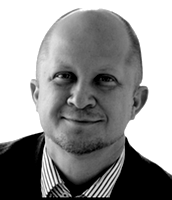
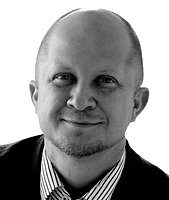
updates

diff --git a/test.html b/test.html
@@ -60,15 +60,48 @@
     <div class="team-container">
 
     <div class="person-card">
-      <img src="http://generativeintelligencelab.ai/images/people/fkoch-headshot.png" alt="Fernando Koch">
+      <img src="./images/people/fkoch-headshot-bw.png">
       <div class="person-name"><a href="https://www.linkedin.com/in/fkoch/">Dr. Fernando Koch</a></div>
       <div class="person-title">Lab Leader<br/><a href="https://www.fau.edu/engineering/directory/faculty/koch/">Research Professor</a><br/>Dept EECS, FAU</div>
     </div>
 
+    <div class="person-card">
+      <img src="./images/people/natasha-headshot-bw.png">
+      <div class="person-name"><a href="https://www.linkedin.com/in/natashaastudillo/">Natasha Astudillo</a></div>
+      <div class="person-title">Research Leader, Smarter Control Systems<br/>Ph.D. Candidate<br/>Dept EECS, FAU</div>
+    </div>
+   
+    <div class="person-card">
+      <img src="./images/people/rutvik-headshot-bw.png">
+      <div class="person-name"><a href="https://www.linkedin.com/in/dave-rutvikkumar/">Rutvikkumar Dave</a></div>
+      <div class="person-title">Research Leader, Smarter Traffic Systems<br/>Master's CS<br/>Dept EECS, FAU</div>
+    </div>
 
+    <div class="person-card">
+      <img src="./images/people/sumedh-headshot-bw.png">
+      <div class="person-name"><a href="https://www.linkedin.com/in/sumedh-vyk/">Sumedh VYK</a></div>
+      <div class="person-title">Research Leader, Smarter Health Systems<br/>Leader, <a href="http://www.faueec.org">Eng Entrepreneurship Club</a><br/>Master's CS<br/>Dept EECS, FAU</div>
+    </div>
+
+
+   
     <!-- Add more people as needed -->
     </div>
 </div>
+
+<h2 id="check-also">Check Also</h2>
+
+<ul>
+  <li><a href="/collaborate.html">Collaborate</a></li>
+  <li><a href="/knowledge.html#publications">Publications</a></li>
+  <li><a href="/knowledge.html#education">Education</a></li>
+  <li><a href="/projects.html#resources">Resources</a></li>
+  <li><a href="/projects.html">Projects</a></li>
+  <li><a href="/exercises.html">Exercises</a></li>
+  <li><a href="/contribute.html">Contributing</a></li>
+</ul>
+
+
 </main>
 
 <footer class="site-footer h-card">

diff --git a/images/_fixing.py b/images/_fixing.py
@@ -3,21 +3,16 @@ import glob
 import os
 
 def main():
-    # Get the directory where this script is located
     base_dir = os.path.dirname(os.path.abspath(__file__))
-
-    # Promo message
     print(f"✨ Running at #{base_dir}")
 
-    # Define resize tasks
     resize_tasks = [
         {"pattern": "use-*.png", "size": (150, 150)},
         {"pattern": "*-icon.png", "size": (200, 200)},
-        {"pattern": "*-headshot.png", "size": (None, 200)}, 
-        {"pattern": "*-info.png", "size": (None, 700)}, 
+        {"pattern": "*-headshot.png", "size": (None, 200), "bw": True, "contrast": 1.4},
+        {"pattern": "*-info.png", "size": (None, 700)},
     ]
 
-    # Process each resize task
     for task in resize_tasks:
         pattern_path = os.path.join(base_dir, '**', task["pattern"])
         image_files = glob.glob(pattern_path, recursive=True)
@@ -28,41 +23,37 @@ def main():
                     orig_width, orig_height = img.size
                     target_width, target_height = task["size"]
 
-                    # Calculate missing dimension if None
-                    if target_width is None and target_height is not None:
+                    if target_width is None:
                         aspect_ratio = orig_width / orig_height
                         target_width = int(target_height * aspect_ratio)
-                    elif target_height is None and target_width is not None:
+                    elif target_height is None:
                         aspect_ratio = orig_height / orig_width
                         target_height = int(target_width * aspect_ratio)
 
-                    resized_img = img.resize((target_width, target_height), Image.Resampling.LANCZOS)
-                    resized_img.save(img_path)
-                    print(f"✅ Resized:  {os.path.basename(img_path)} → {task['size']}")
+                    # Skip resizing if already at target size
+                    if (orig_width, orig_height) == (target_width, target_height):
+                        print(f"⏩ Skipped (already size): {os.path.basename(img_path)}")
+                        resized_img = img.copy()
+                    else:
+                        resized_img = img.resize((target_width, target_height), Image.Resampling.LANCZOS)
+                        resized_img.save(img_path)
+                        print(f"✅ Resized:  {os.path.basename(img_path)} → {target_width}x{target_height}")
+
+                    # Optional B&W processing
+                    if task.get("bw", False):
+                        contrast_value = task.get("contrast", 1.0)
+                        bw_img = resized_img.convert('L')
+                        enhancer = ImageEnhance.Contrast(bw_img)
+                        bw_img = enhancer.enhance(contrast_value)
+                        bw_img = bw_img.convert('RGB')
+
+                        base, ext = os.path.splitext(img_path)
+                        bw_path = base + '-bw' + ext
+                        bw_img.save(bw_path)
+                        print(f"🖤 B&W Created: {os.path.basename(bw_path)} (contrast: {contrast_value})")
+
             except Exception as e:
                 print(f"❌ Failed: {img_path} — {e}")
-
-    # Create high-contrast black and white versions of headshots
-    bw_pattern_path = os.path.join(base_dir, '**', '*-headshot.png')
-    bw_files = glob.glob(bw_pattern_path, recursive=True)
-
-    for img_path in bw_files:
-        try:
-            with Image.open(img_path) as img:
-                bw_img = img.convert('L')  # Convert to grayscale
-
-                # Enhance contrast
-                enhancer = ImageEnhance.Contrast(bw_img)
-                bw_img = enhancer.enhance(1.5)  # Increase contrast (adjust factor if needed)
-
-                bw_img = bw_img.convert('RGB')  # Convert back to RGB to save as PNG
-
-                base, ext = os.path.splitext(img_path)
-                bw_path = base + '-bw' + ext
-                bw_img.save(bw_path)
-                print(f"✅ B&W Created: {os.path.basename(bw_path)}")
-        except Exception as e:
-            print(f"❌ BW Conversion Failed: {img_path} — {e}")
 
 if __name__ == "__main__":
     main()
